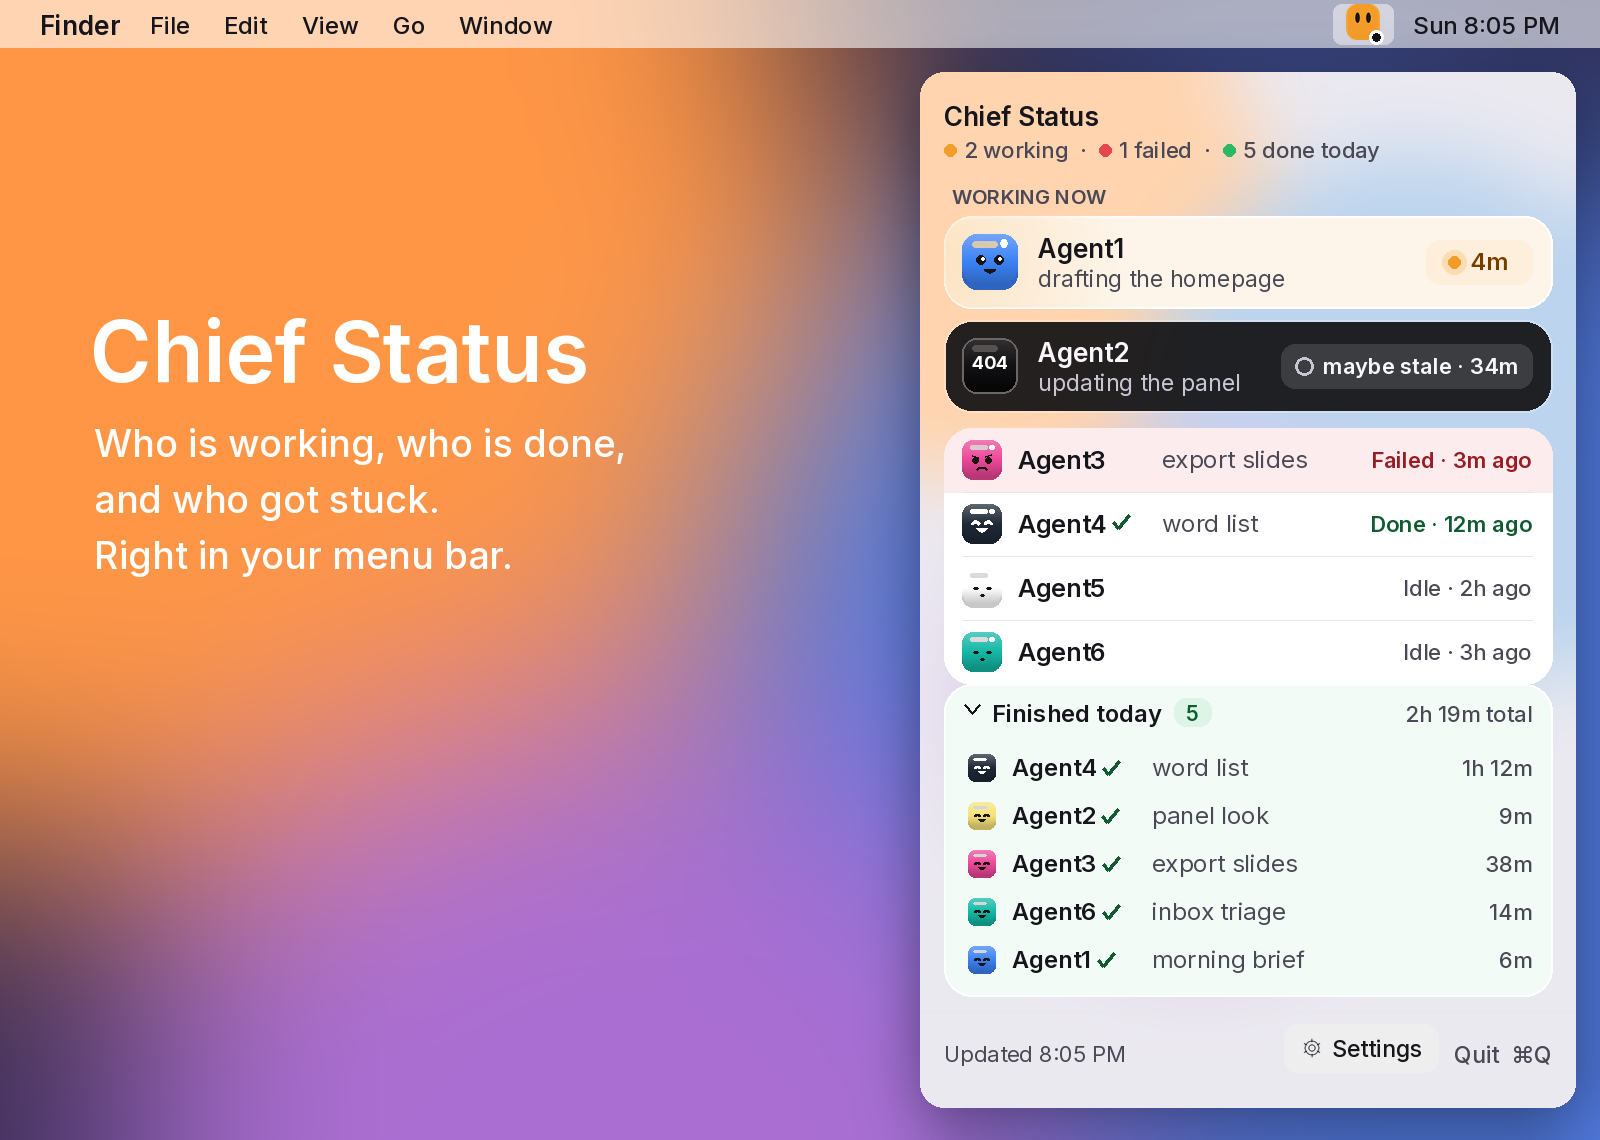
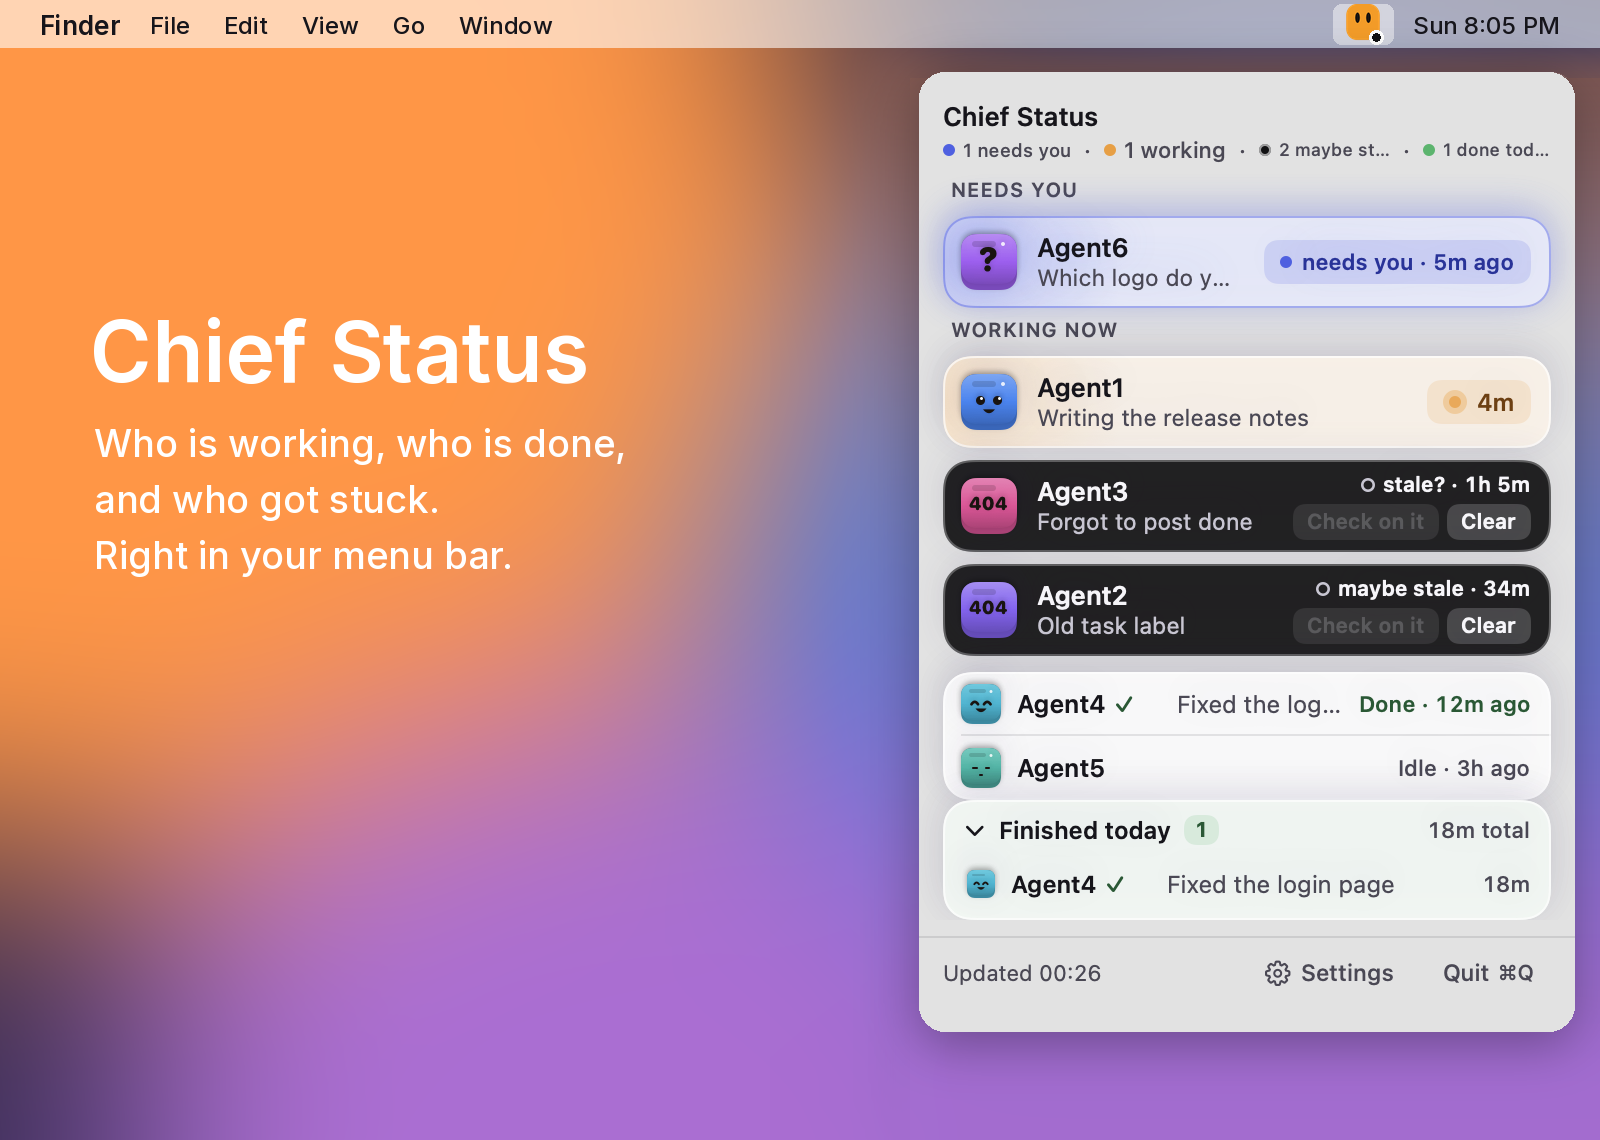
README: v1.4.0 screenshots from --render-preview, download checksum, Homebrew tap

Changed region(s): [[0.5625, 0.0307, 1.0, 1.0]]

diff --git a/docs/render-demo.py b/docs/render-demo.py
@@ -1,6 +1,10 @@
 #!/usr/bin/env python3
 """Render docs/demo.gif, docs/panel.png, docs/hero.png and docs/icon.png.
 
+Since v1.4.0, docs/panel.png is the app's own `ChiefStatus --render-preview` panel-light.png,
+and docs/hero.png places that panel on this script's background. Re-running this script
+draws the older v1.3 faces, so keep it to demo.gif and icon.png.
+
 The panel shows one fresh working card and one maybe-stale card (black, 404 face).
 
 This is a faithful port of the menu-bar drawing and motion in

diff --git a/README.md b/README.md
@@ -21,7 +21,7 @@
 </p>
 
 <p align="center">
-  <img src="docs/hero.png" alt="The Chief Status panel open under the menu bar cube: one bot working, one maybe stale in a black card with a 404 face, one failed, one done, and today's finished jobs">
+  <img src="docs/hero.png" alt="The Chief Status panel open under the menu bar cube: one bot that needs you with a ? face, one working, two maybe stale in black cards with 404 on their faces in their own colours, one done, one idle, and today's finished jobs">
 </p>
 
 ## What it does
@@ -72,9 +72,25 @@ There are three parts:
 5. Paste your feed address (from [Set up the feed](#set-up-the-feed)) and click **Save**. If you have no feed yet, click **No feed yet? Set one up**, or **Deploy to Cloudflare**.
 6. To have it start every time you log in, click the cube, open **Settings**, and turn on **Open at login**. You can also add it under **System Settings → General → Login Items**.
 
-What's new in each version: [CHANGELOG.md](CHANGELOG.md). Latest: [v1.4.0](CHANGELOG.md#v140--2026-10-18).
+What's new in each version: [CHANGELOG.md](CHANGELOG.md). Latest: [v1.4.0](CHANGELOG.md#v140--2026-10-19).
 
 Terminal users can install the same disk image with Homebrew. See [Install with Homebrew](#install-with-homebrew).
+
+### Check what you downloaded
+
+Each release lists the SHA-256 of its disk image. The disk image is built with `./packaging/make-dmg.sh` from the tagged commit. In Terminal, in the folder you downloaded to:
+
+```bash
+shasum -a 256 Chief-Status-1.4.0.dmg
+```
+
+For v1.4.0 it must print:
+
+```
+a3990defd9da19b9542ae465e01e0ebbe0b43f2cbe66aa6bb8f8ebb13e2fad6b  Chief-Status-1.4.0.dmg
+```
+
+If it prints anything else, delete the file and download it again from the [release page](https://github.com/pohstep/chief-status/releases/tag/v1.4.0).
 
 ### Why does macOS warn me?
 
@@ -114,7 +130,7 @@ If you installed with `./install.sh`, run `./uninstall.sh` instead. It also remo
 **Icon colour** (Settings) sets the colour of the working cube, the **404** cube and the **?** cube. Default keeps today's orange. The other choices are eleven swatches or a custom colour. It changes at once and is remembered. Grey idle and red failed stay as they are. The **404** and **?** marks, and the eyes, are drawn dark or white, whichever reads better on your colour. There is no outline.
 
 <p align="center">
-  <img src="docs/panel.png" width="328" alt="The panel up close: a fresh orange working card, a black maybe-stale card with a 404 face, and each row showing when that bot last posted">
+  <img src="docs/panel.png" width="328" alt="The panel up close: a needs-you card at the top, a fresh working card, two black maybe-stale cards whose faces keep the bot's colour with 404 on them, and each row showing when that bot last posted">
 </p>
 
 How to read the panel:
@@ -444,7 +460,7 @@ brew tap pohstep/tap
 brew install --cask chief-status
 ```
 
-The recipe in this repo is `packaging/homebrew/Casks/chief-status.rb`. Copy it into the `pohstep/homebrew-tap` repo and fill in the SHA-256 of `Chief-Status-1.4.0.dmg` first. Until that tap is published, use the `.dmg` or [build it yourself](#build-it-yourself).
+The tap lives at [pohstep/homebrew-tap](https://github.com/pohstep/homebrew-tap). Its cask downloads the release `Chief-Status-1.4.0.dmg` and checks the same SHA-256 listed above. A copy of the recipe is in this repo at `packaging/homebrew/Casks/chief-status.rb`.
 
 The cask installs **Chief Status** into `/Applications`. The app is unsigned. The first time macOS blocks it, use **Open Anyway** in **System Settings → Privacy & Security**, or:
 

diff --git a/CHANGELOG.md b/CHANGELOG.md
@@ -1,6 +1,6 @@
 # Changelog
 
-## v1.4.0 — 2026-10-18
+## v1.4.0 — 2026-10-19
 
 In plain words:
 
